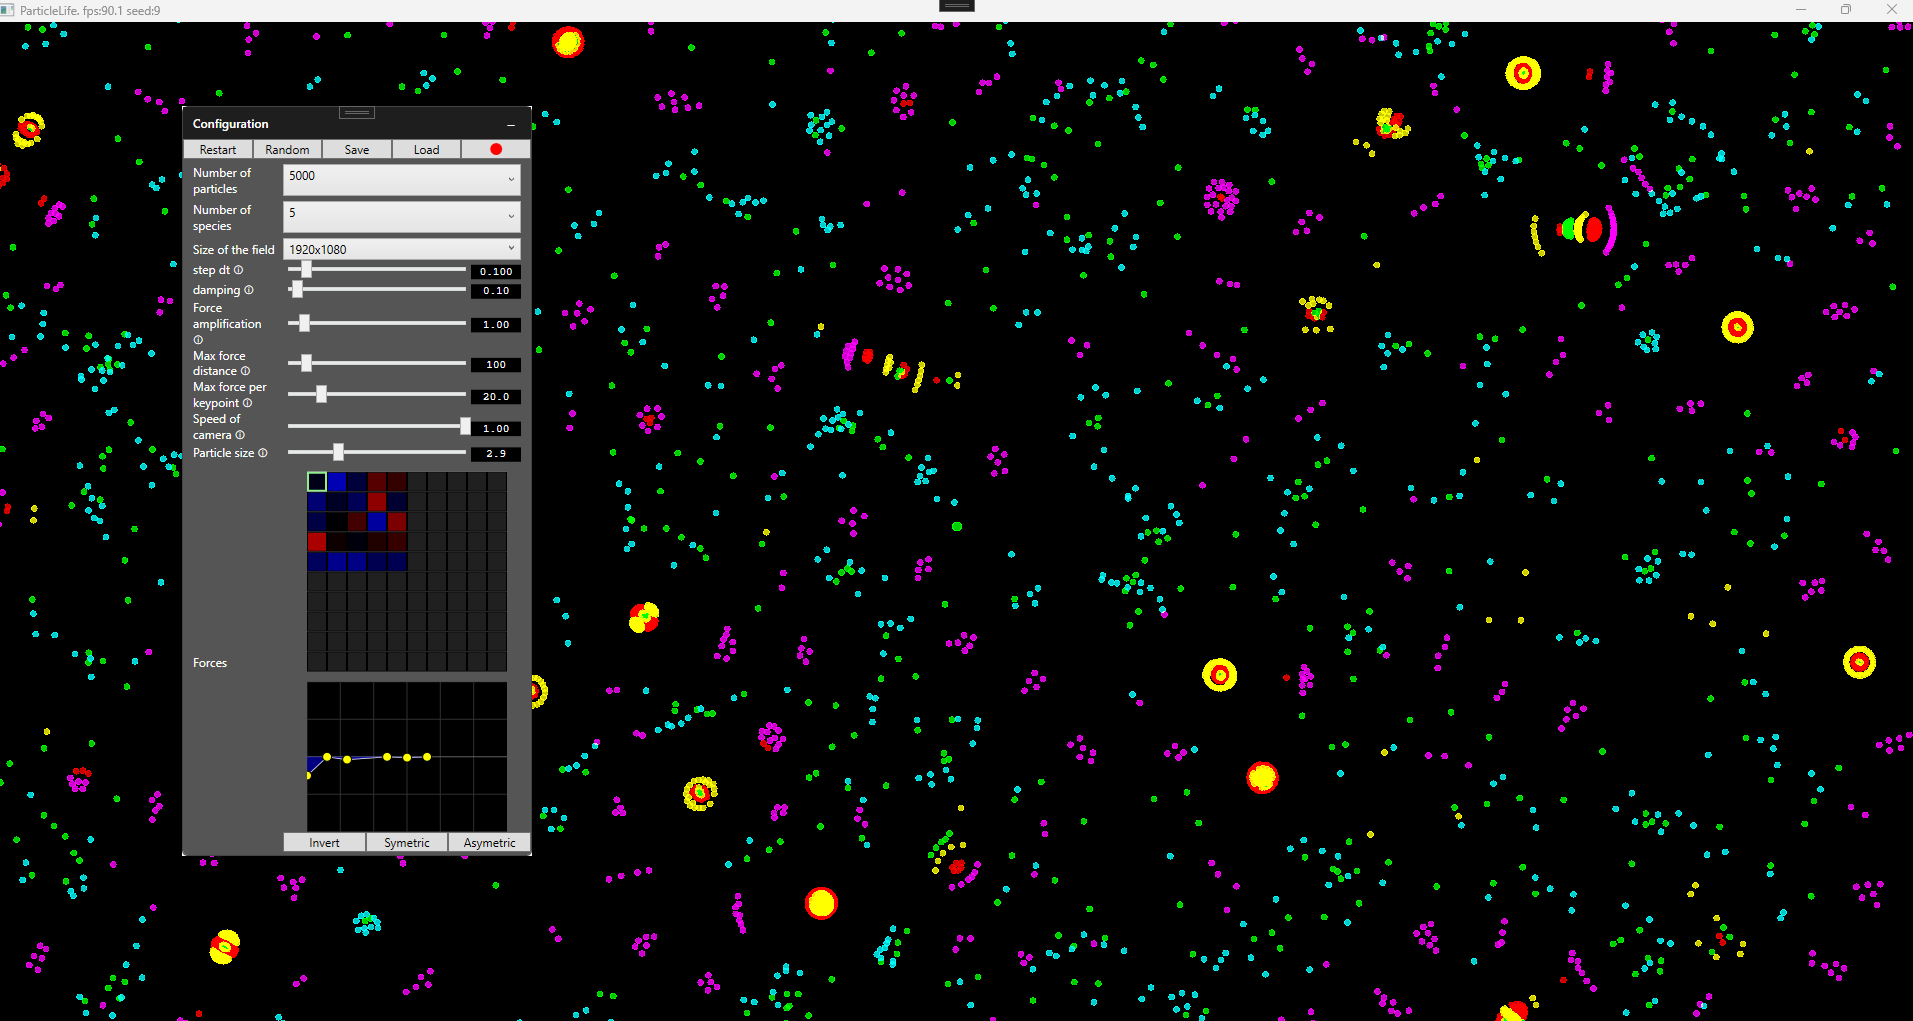
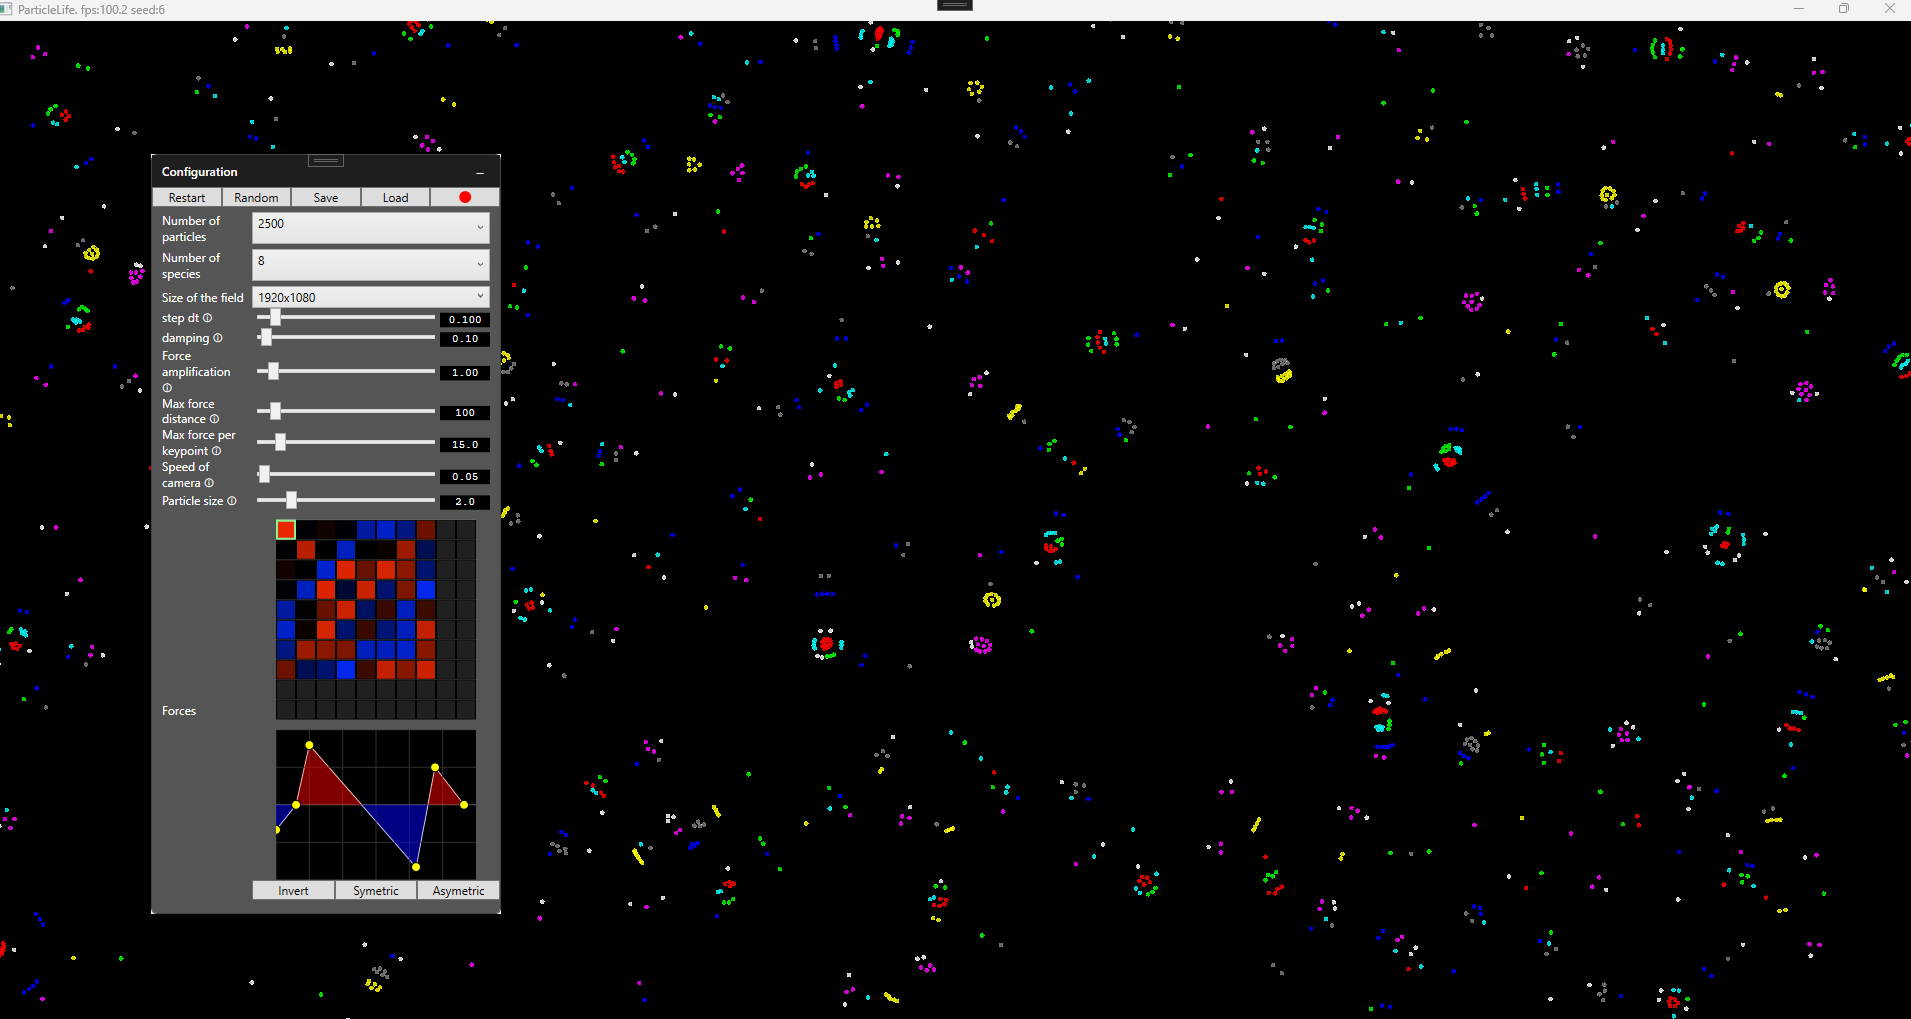
captures

diff --git a/src/ParticleLife/Gui/ConfigWindow.xaml b/src/ParticleLife/Gui/ConfigWindow.xaml
@@ -7,7 +7,7 @@
         mc:Ignorable="d"
         Title="ConfigWindow" 
         Width="350"
-        Height="750"  
+        Height="760"  
         ResizeMode="CanMinimize"
         WindowStartupLocation="CenterOwner"
         WindowState="Normal"

diff --git a/src/ParticleLife/Gui/ConfigWindow.xaml.cs b/src/ParticleLife/Gui/ConfigWindow.xaml.cs
@@ -97,7 +97,7 @@ namespace ParticleLife.Gui
                 var offset = Simulation.GetForceOffset(forceMatrix.SelectedX, forceMatrix.SelectedY);
                 for (int i = 0; i < Simulation.KeypointsCount; i++)
                     app.simulation.forces[offset + i] = forceGraph.Forces[i];
-                forceMatrix.UpdateCells(app.simulation.forces, app.simulation.config.speciesCount);
+                forceMatrix.UpdateCells(app.simulation.forces, app.simulation.config.speciesCount, app.simulation.config.maxForce);
             };
 
             invertButton.Click += (s, e) => Invert(Simulation.GetForceOffset(forceMatrix.SelectedX, forceMatrix.SelectedY));
@@ -155,7 +155,7 @@ namespace ParticleLife.Gui
         {
             forceMatrix.SelectedX = 0;
             forceMatrix.SelectedY = 0;
-            forceMatrix.UpdateCells(app.simulation.forces, app.simulation.config.speciesCount);
+            forceMatrix.UpdateCells(app.simulation.forces, app.simulation.config.speciesCount, app.simulation.config.maxForce);
             forceMatrix.UpdateSelection();
             UpdateGraph();
         }
@@ -246,7 +246,7 @@ namespace ParticleLife.Gui
         {
             foreach (var text in WpfUtil.FindVisualChildren<TextBlock>(this))
                     WpfUtil.UpdateTextBlockForSlider(this, text, app.simulation);
-            forceMatrix.UpdateCells(app.simulation.forces, app.simulation.config.speciesCount);
+            forceMatrix.UpdateCells(app.simulation.forces, app.simulation.config.speciesCount, app.simulation.config.maxForce);
             UpdateGraph();
         }
     }

diff --git a/src/ParticleLife/Gui/ForceMatrix.cs b/src/ParticleLife/Gui/ForceMatrix.cs
@@ -98,7 +98,7 @@ namespace ParticleLife.Gui
             }
         }
     
-        public void UpdateCells(Vector4[] forces, int speciesCount)
+        public void UpdateCells(Vector4[] forces, int speciesCount, float maxForce)
         {
             this.speciesCount = speciesCount;
             var inactive = new SolidColorBrush(System.Windows.Media.Color.FromArgb(255, 32, 32, 32));
@@ -115,10 +115,11 @@ namespace ParticleLife.Gui
                             val += forces[offset + i].Y;
                         }
 
-                        var r = (val > 0) ? val / 10 : 0;
-                        var b = (val < 0) ? -val / 10 : 0;
+                        var r = ParticleLife.Utils.MathUtil.Amplify((val > 0) ? val / maxForce : 0, 4);
+                        var b = ParticleLife.Utils.MathUtil.Amplify((val < 0) ? -val / maxForce : 0, 4);
+                        var g = Math.Max(r, b) / 6;
                         var rect = rectangles[x, y];
-                        rect.Fill = new SolidColorBrush(System.Windows.Media.Color.FromArgb(255, ClampColor(r), 0, ClampColor(b)));
+                        rect.Fill = new SolidColorBrush(System.Windows.Media.Color.FromArgb(255, ClampColor(r), ClampColor(g), ClampColor(b)));
                     }
                     else
                     {

diff --git a/src/ParticleLife/Utils/MathUtil.cs b/src/ParticleLife/Utils/MathUtil.cs
@@ -18,5 +18,15 @@ namespace ParticleLife.Utils
 
             return d;
         }
+
+        public static double Amplify(double x, int pow)
+        {
+            double a = 1;
+            for (int i = 0; i < pow; i++)
+                a = a * (1 - x);
+
+            return 1 - a;
+
+        }
     }
 }

diff --git a/src/ParticleLife/Models/ShaderConfig.cs b/src/ParticleLife/Models/ShaderConfig.cs
@@ -37,7 +37,7 @@ namespace ParticleLife.Models
 
         [FieldOffset(40)] public int trackedIdx;
 
-        [FieldOffset(44)] public float maxForce = 20f;
+        [FieldOffset(44)] public float maxForce = 15;
 
         [FieldOffset(48)] public float amp = 1f;
     }
